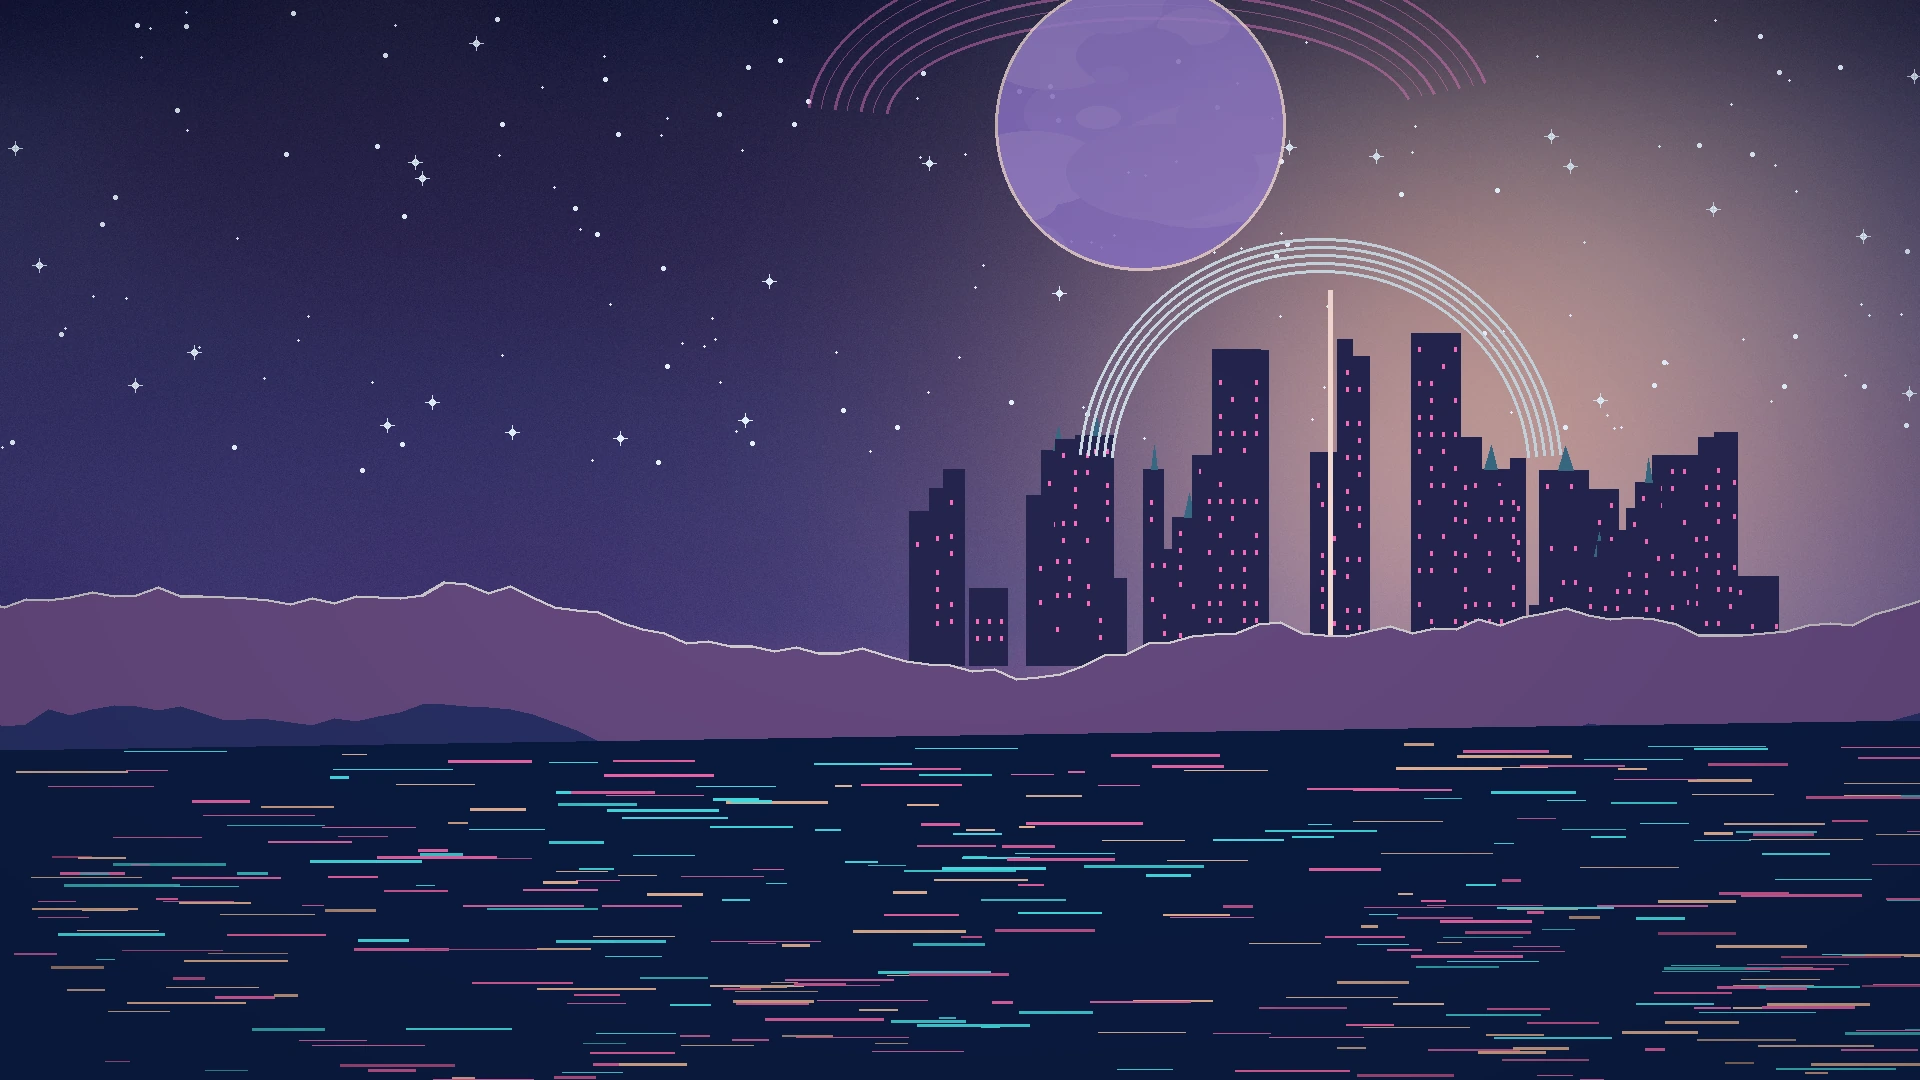
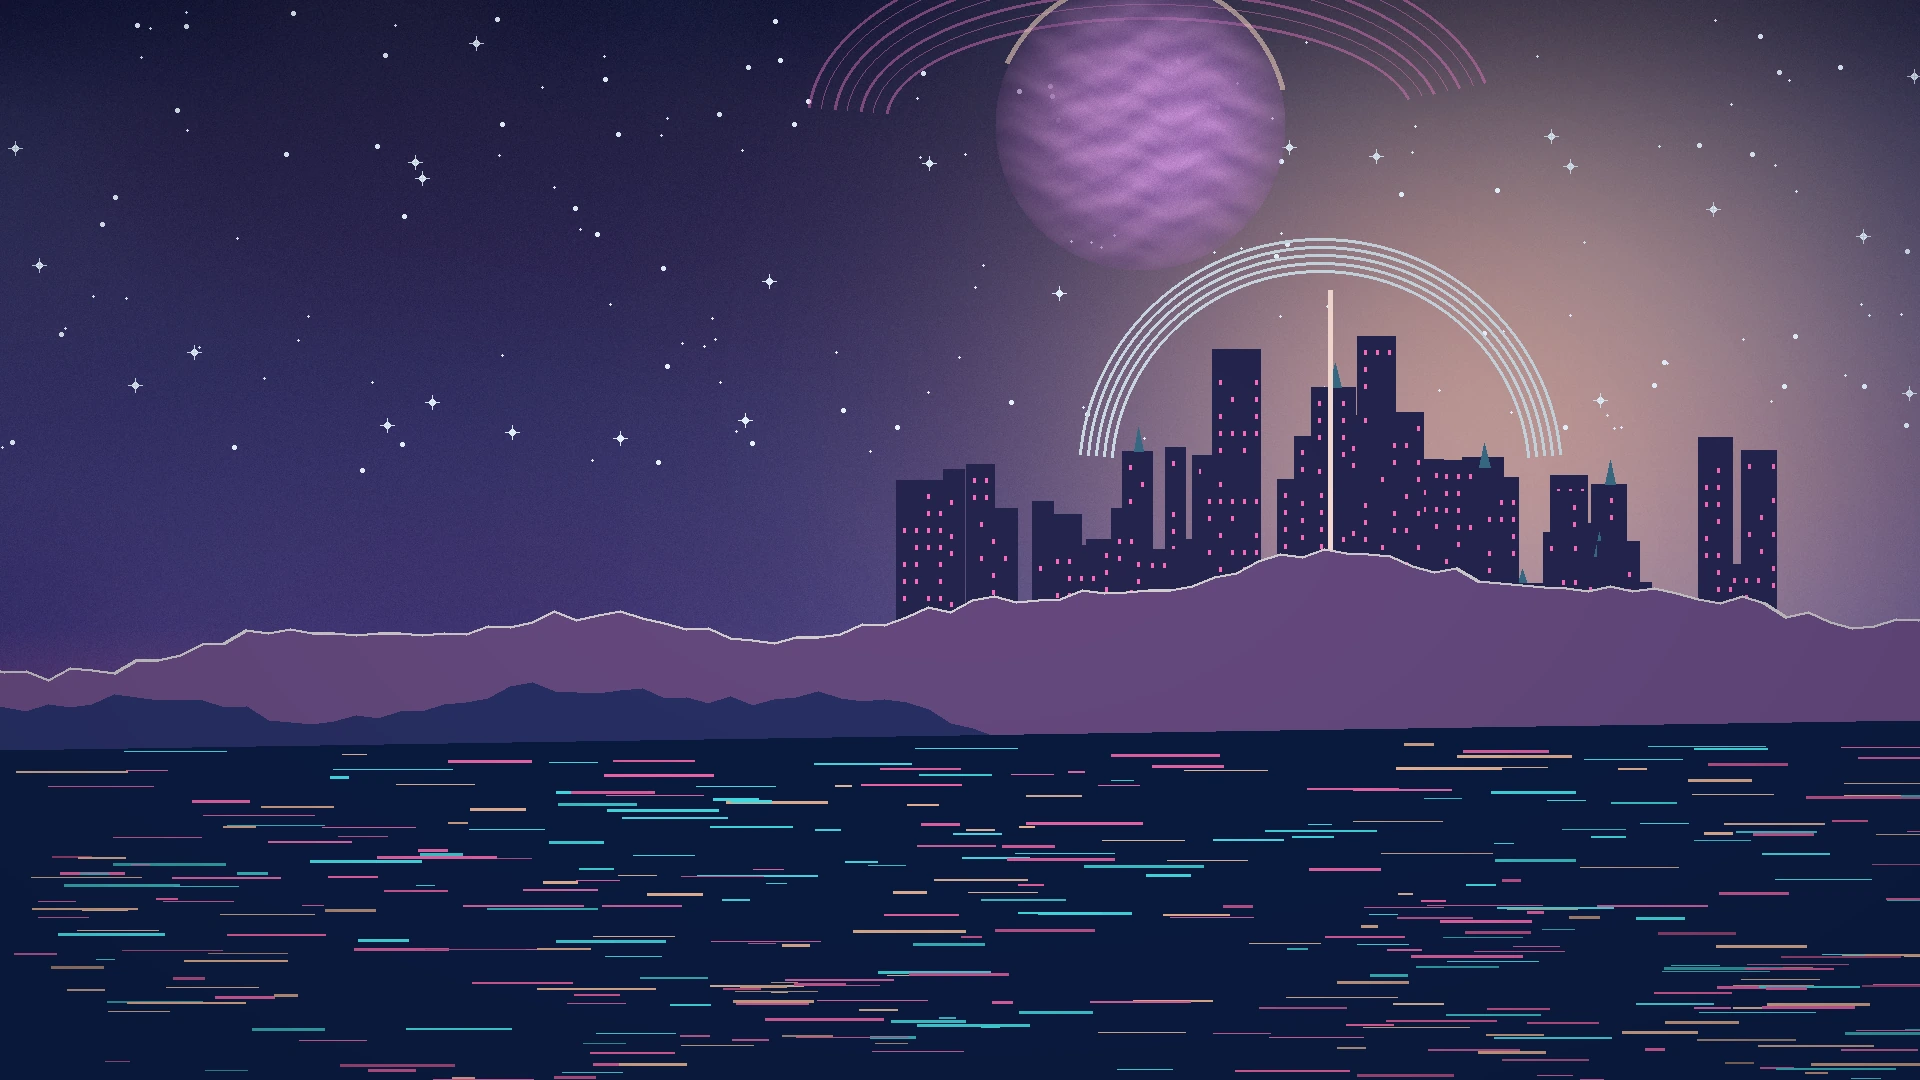
art: add luminous planetary texture to four TV vistas

diff --git a/scripts/build-tv-launcher-assets.py b/scripts/build-tv-launcher-assets.py
@@ -89,24 +89,37 @@ def planet(im,rng, center, radius, mode):
         rd.arc((cx-radius-110-pad,cy-radius//3-60-pad,cx+radius+130+pad,cy+radius//3+50+pad),
                184,348,fill=ring_colors[mode],width=3 if i%2==0 else 1)
     im.alpha_composite(ring)
-    layer=Image.new("RGBA",(W,H))
-    ld=ImageDraw.Draw(layer,"RGBA")
-    moon={"horizon":(164,178,210,235),"aperture":(115,114,182,230),
-          "cloudforge":(144,181,195,190),"harbor":(135,111,191,220)}
-    ld.ellipse((cx-radius,cy-radius,cx+radius,cy+radius),fill=moon[mode],
-               outline=(250,224,216,190),width=3)
-    ringmask=Image.new("L",(W,H),0)
-    ImageDraw.Draw(ringmask).ellipse((cx-radius,cy-radius,cx+radius,cy+radius),fill=255)
-    blur=Image.new("RGBA",(W,H))
-    bd=ImageDraw.Draw(blur,"RGBA")
-    for i in range(25):
-        x=rng.randint(cx-radius,cx+radius)
-        y=rng.randint(cy-radius,cy+radius)
-        rr=rng.randint(10,130)
-        bd.ellipse((x-rr,y-rr/2,x+rr,y+rr/2),fill=(253,228,239,rng.randint(8,28)))
-    blur.putalpha(Image.fromarray(np.minimum(np.array(blur.getchannel("A")),np.array(ringmask)), "L"))
-    layer.alpha_composite(blur)
-    im.alpha_composite(layer)
+    # Physically inspired, original textured procedural globe. Directional
+    # lighting, atmospheric limb and curved bands avoid a flat circle.
+    from numpy import pi
+    yy,xx=np.mgrid[0:2*radius,0:2*radius].astype(np.float32)
+    u=(xx-radius)/radius
+    v=(yy-radius)/radius
+    r2=u*u+v*v
+    inside=r2<=1
+    shade=np.sqrt(np.clip(1-r2,0,1))
+    solar=np.clip(.65+.32*u+.13*shade,0,1.2)
+    belts=(np.sin(20*v+3*np.sin(u*5))*13
+         +np.sin(37*v-2*np.sin(u*8))*7
+         +np.sin(56*v+3*np.cos(u*14))*3)
+    granular=np.random.default_rng(radius+cx+cy).normal(0,5,(2*radius,2*radius))
+    base_rgb={"horizon":(125,151,188),"aperture":(126,99,170),
+              "cloudforge":(122,180,183),"harbor":(153,99,172)}[mode]
+    sphere=np.zeros((radius*2,radius*2,4),dtype=np.uint8)
+    for channel in range(3):
+        level=base_rgb[channel]+belts*(.85 if channel else 1.1)+granular
+        level=level*(.58+solar*.44)+shade*30
+        sphere[:,:,channel]=np.uint8(np.clip(level,0,255))
+    # Soft rim and edge fade improve separation from the atmospheric sky.
+    sphere[:,:,3]=np.uint8(np.where(inside, np.clip((1-r2)*220+70,0,255),0))
+    planet_raster=Image.fromarray(sphere,"RGBA")
+    im.alpha_composite(planet_raster,(int(cx-radius),int(cy-radius)))
+    # Clipped luminous atmospheric contours add depth without reference art.
+    overlay=Image.new("RGBA",(W,H))
+    dd=ImageDraw.Draw(overlay,"RGBA")
+    dd.arc((cx-radius-4,cy-radius-4,cx+radius+4,cy+radius+4),
+           205,346,fill=(253,219,197,145),width=5)
+    im.alpha_composite(overlay)
 
 def ridges(im,rng,mode):
     d=ImageDraw.Draw(im,"RGBA")
